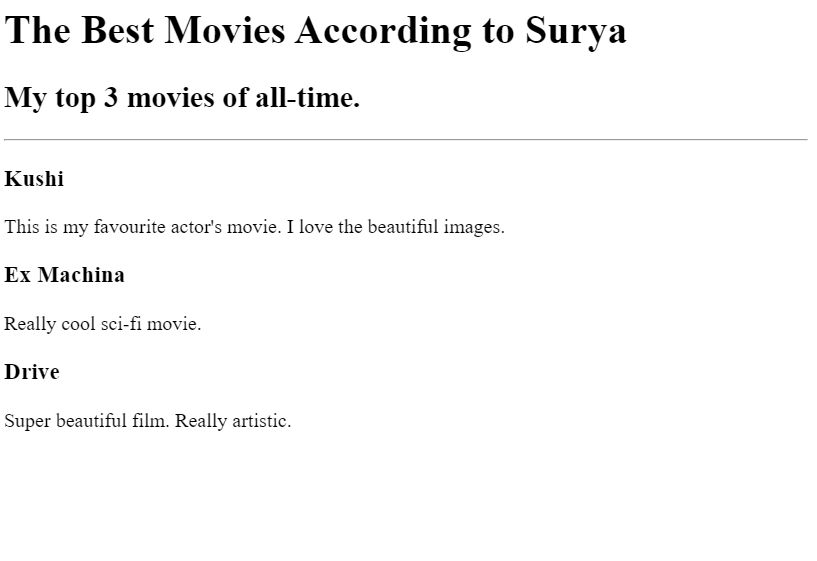
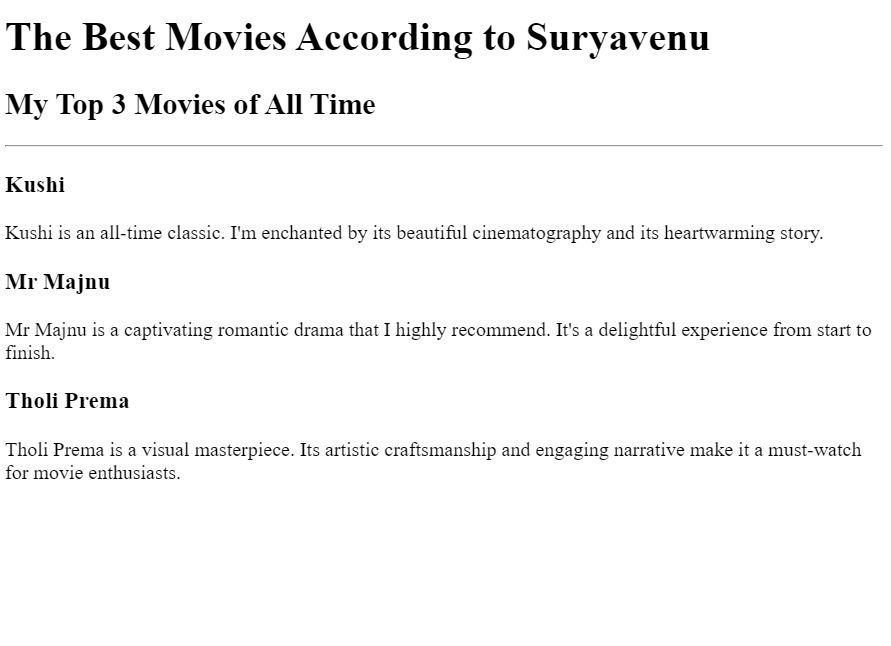
basic-html-portfolio

Changed region(s): [[0.0, 0.2727, 0.9792, 0.7879], [0.0, 0.0303, 0.7956, 0.0909], [0.0, 0.1212, 0.4284, 0.2121]]

diff --git a/public/about.html b/public/about.html
@@ -1,20 +1,2 @@
-<h1>About Me</h1>
-<p>Lorem ipsum dolor sit amet, consectetur adipiscing elit. Pellentesque sem tellus, sagittis non odio nec, interdum
-  elementum lacus. Ut ac justo eget risus sollicitudin fringilla sed ut leo. Ut condimentum elit nec fermentum lobortis.
-  Quisque tincidunt quam nec tincidunt ullamcorper. Integer vitae pretium justo. In placerat volutpat pellentesque.
-  Etiam
-  gravida quam vitae odio pulvinar imperdiet. Vivamus venenatis gravida purus sit amet aliquet. Ut in nibh sed quam
-  laoreet lacinia. Cras cursus ut dui vitae posuere. Vivamus volutpat urna vitae odio fringilla placerat. Nulla vel
-  rhoncus sapien. Phasellus at interdum enim.</p>
-
-<p>Curabitur elementum sagittis mollis. In porta nec quam ut semper. Nulla volutpat neque quis lacus mattis eleifend.
-  Phasellus et congue odio. Mauris tristique, nisl quis porttitor porttitor, tortor ante mattis ex, at dictum tortor
-  dolor
-  ut sem. Nullam nec libero non ex porta vulputate a eu sapien. In nec bibendum mauris. Fusce iaculis lectus vel magna
-  laoreet gravida.</p>
-
-<p>Donec euismod vestibulum arcu, a blandit metus mattis ultrices. Integer quis hendrerit justo. Maecenas sed tempor mi.
-  Fusce egestas urna leo. Mauris viverra sem sed libero egestas, volutpat aliquet magna porta. Quisque id diam sed ipsum
-  interdum sollicitudin id quis augue. Donec congue nisl nec massa ornare imperdiet quis quis odio. Etiam ut volutpat
-  nisl. Vestibulum hendrerit justo nibh, eget consequat magna fermentum finibus. Pellentesque et urna fringilla, rutrum
-  neque in, varius leo. Vestibulum efficitur id massa eget pellentesque.</p>
+<h1>About Suryavenu</h1>
+<p>Hello, I'm Suryavenu. I am passionate about web development and creating amazing digital experiences. When I'm not coding, I enjoy exploring new technologies and expanding my skillset. Let's create something extraordinary together!</p>

diff --git a/public/movie-ranking.html b/public/movie-ranking.html
@@ -1,9 +1,21 @@
-<h1>The Best Movies According to Surya</h1>
-<h2>My top 3 movies of all-time.</h2>
-<hr />
-<h3>Kushi</h3>
-<p>This is my favourite actor's movie. I love the beautiful images.</p>
-<h3>Ex Machina</h3>
-<p>Really cool sci-fi movie.</p>
-<h3>Drive</h3>
-<p>Super beautiful film. Really artistic.</p>
+<!DOCTYPE html>
+<html lang="en">
+
+<head>
+  <meta charset="UTF-8">
+  <title>Suryavenu's Movie Rankings</title>
+</head>
+
+<body>
+  <h1>The Best Movies According to Suryavenu</h1>
+  <h2>My Top 3 Movies of All Time</h2>
+  <hr />
+  <h3>Kushi</h3>
+  <p>Kushi is an all-time classic. I'm enchanted by its beautiful cinematography and its heartwarming story.</p>
+  <h3>Mr Majnu</h3>
+  <p>Mr Majnu is a captivating romantic drama that I highly recommend. It's a delightful experience from start to finish.</p>
+  <h3>Tholi Prema</h3>
+  <p>Tholi Prema is a visual masterpiece. Its artistic craftsmanship and engaging narrative make it a must-watch for movie enthusiasts.</p>
+</body>
+
+</html>

diff --git a/public/birthday-invite.html b/public/birthday-invite.html
@@ -1,18 +1,18 @@
-<!-- This is one possible solution -->
-<h1>It's My Birthday!</h1>
-<h2>On the 2nd Oct</h2>
+<h1>Suryavenu's Birthday Bash!</h1>
+<h2>Celebrate with Me on October 2nd</h2>
 
 <img src="https://raw.githubusercontent.com/appbrewery/webdev/main/birthday-cake3.4.jpeg"
-  alt="purple birthday cake with candles" />
+  alt="Purple Birthday Cake with Candles" />
 
-<h3>What to bring:</h3>
+<h3>What to Bring:</h3>
 <ul>
-  <li>Baloons (I love baloons)</li>
+  <li>Balloons (I love balloons)</li>
   <li>Cake (I'm really good at eating)</li>
-  <li>An appetite (There will be lots of food)</li>
+  <li>An Appetite (There will be lots of food)</li>
 </ul>
 
-<h3>This is where you need to go:</h3>
-<a
-  href="https://www.google.com/maps/@35.7040744,139.5577317,3a,75y,289.6h,87.01t,0.72r/data=!3m6!1e1!3m4!1sgT28ssf0BB2LxZ63JNcL1w!2e0!7i13312!8i6656">Google
-  map link</a>
+<h3>Location:</h3>
+<p>
+  123 North Street<br />
+  Chennai, India <br />
+</p>

diff --git a/index.html b/index.html
@@ -3,20 +3,19 @@
 
 <head>
   <meta charset="UTF-8">
-  <title>Surya's Portfolio</title>
+  <title>Suryavenu's Portfolio</title>
 </head>
 
 <body>
-  <h1>Surya's Portfolio</h1>
+  <h1>Suryavenu's Portfolio</h1>
   <h2>I'm a Web Developer</h2>
   <hr />
   <h3><a href="./public/movie-ranking.html">Movie Ranking Project</a></h3>
-  <img src="./assets/images/movie-ranking.png" height="200" alt="movie ranking project preview"/>
+  <img src="./assets/images/movie-ranking.png" height="200" alt="Movie Ranking Project Preview" />
   <h3><a href="./public/birthday-invite.html">Birthday Invite Project</a></h3>
-  <img src="./assets/images/birthday-invite.png" height="200" alt="birthday invite project preview"/>
+  <img src="./assets/images/birthday-invite.png" height="200" alt="Birthday Invite Project Preview" />
   <hr />
   <a href="./public/about.html">About Me</a>
   <a href="./public/contact.html">Contact Me</a>
 </body>
-
 </html>

diff --git a/public/contact.html b/public/contact.html
@@ -1,6 +1,6 @@
 <h1>Contact Me</h1>
 <p>Tel: +919498020974</p>
-<p>Email: suryavenu@gmail.com</p>
+<p>Email: suryavenunnsv@gmail.com</p>
 <p>Address:</p>
 <p>
   123 North Street<br />
